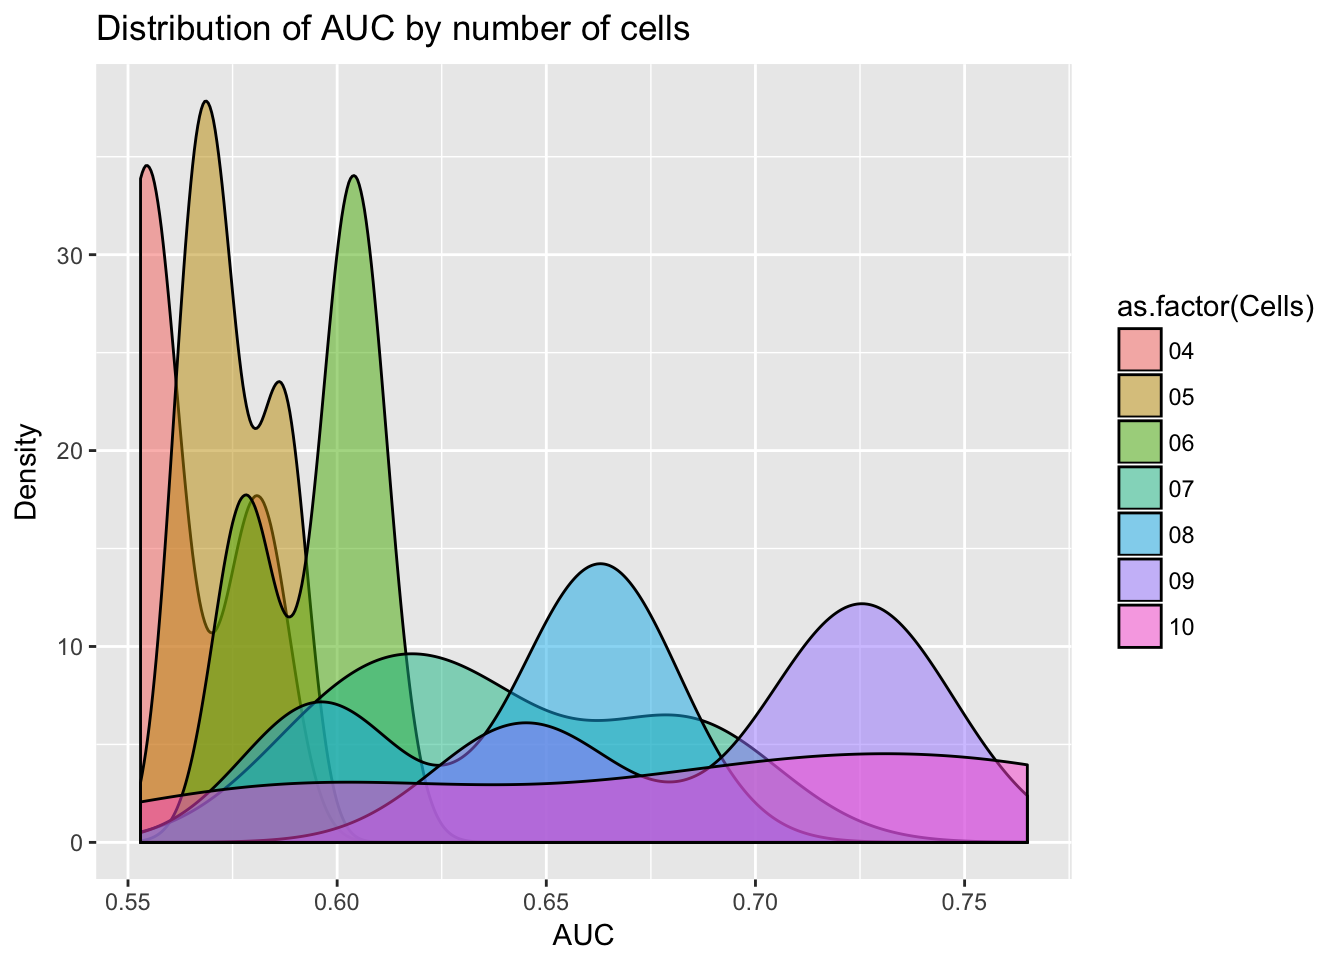
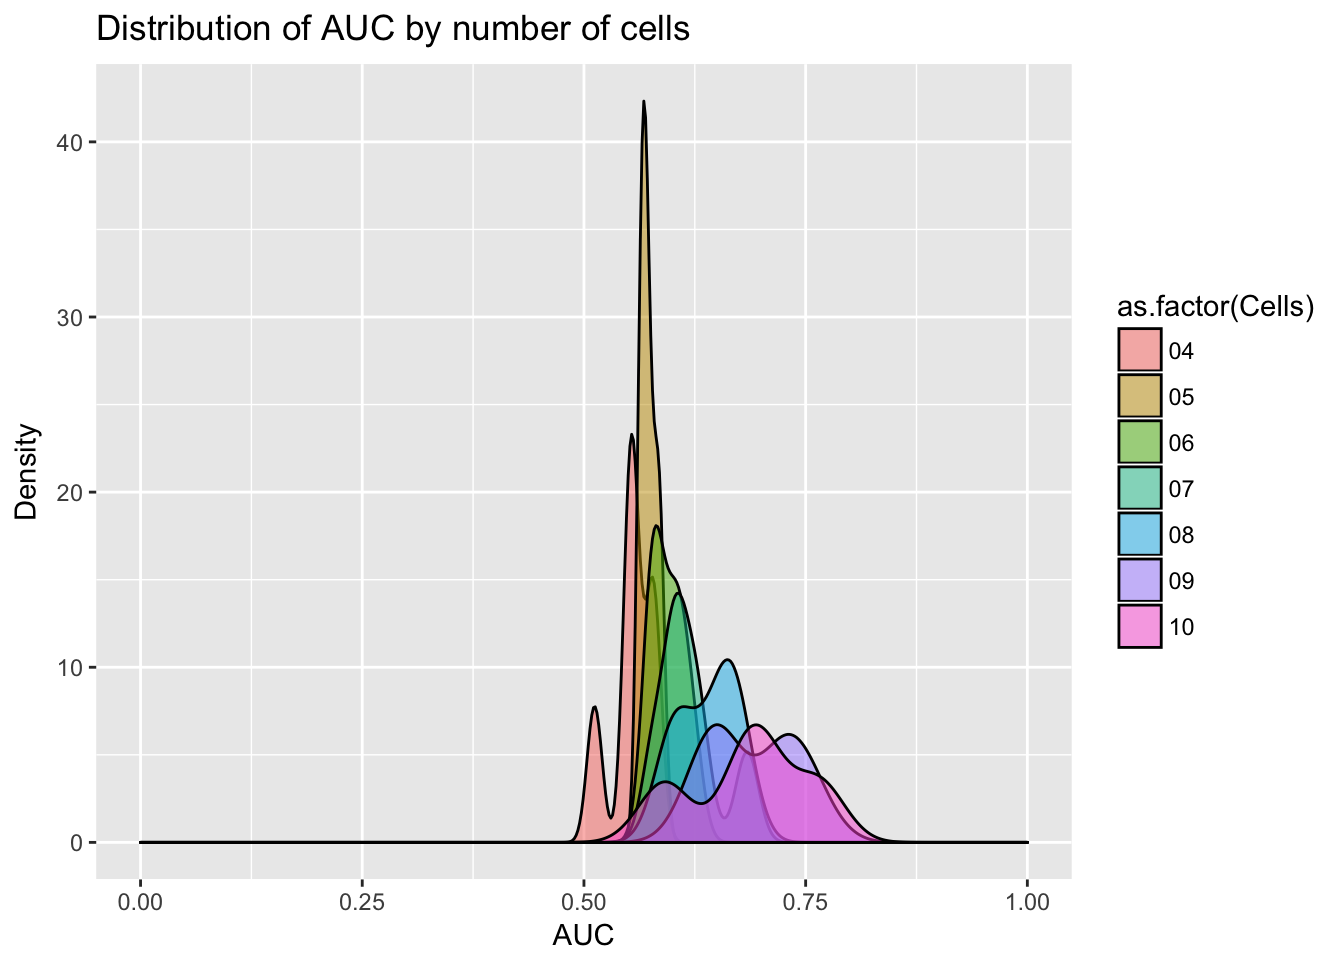
Better metrics

diff --git a/post/ultimate-captioning-detector/index.html b/post/ultimate-captioning-detector/index.html
@@ -254,7 +254,7 @@
 
 
     <div class="article-style" itemprop="articleBody">
-      <p>The task is to classify images: which ones depict a disc, and which ones do not? Using a manually-labeled collection of over 3,000 images, partition the data into training and testing sets, extract features using Histograms of Oriented Gradients (HoGs), train a linear support vector machine on the training set, and classify the images from the testing set. Examine the effect on classifier performance resulting from varying the proportion of examples used for training vs. testing and the number of cells used for extracting HoGs from each image.</p>
+      <p>The task is to classify images: which ones depict a disc, and which ones do not? Using a manually-labeled collection of over 3,000 images, partition the data into training and testing sets, extract features using Histograms of Oriented Gradients (HoGs), train a linear support vector machine on the training set, and classify the images from the testing set. Examine the effect on classifier performance resulting from varying the proportion of examples used for training vs. testing, the number of cells, and the number of bins used for extracting HoGs from each image.</p>
 <hr />
 <div id="data" class="section level2">
 <h2>Data</h2>
@@ -284,6 +284,10 @@
 </blockquote>
 <p>B. Partition the labeled data into multiple training and testing sets in order to see what effect the number of training rows has on the effectiveness of the detector.</p>
 <p>See <a href="https://github.com/Video-Captioning/partition_datasets" class="uri">https://github.com/Video-Captioning/partition_datasets</a></p>
+<pre class="bash"><code># Create a few aliases to make the intent more clear in the scripts that follow.
+alias PROJECTPATH=&#39;echo &quot;/path/to/Projects/Video-Captioning/&quot;&#39;
+alias CLASS_LABELS=&#39;echo &quot;labeled_3471.txt&quot;&#39;
+alias KEYWORD=&#39;echo &quot;disc&quot;&#39;</code></pre>
 <pre class="bash"><code># Generate three data sets, using a progressively higher
 # percentage of examples for training:
 cd `PROJECTPATH`
@@ -296,11 +300,12 @@ for fraction in 0.40 0.50 0.60
 <div id="make-histograms-of-oriented-gradients-hogs" class="section level3">
 <h3>2. Make Histograms of Oriented Gradients (HoGs)</h3>
 <p>See <a href="https://github.com/Video-Captioning/HoG" class="uri">https://github.com/Video-Captioning/HoG</a></p>
-<p>The number of bins remains constant at 9 for the following, while the number of cells varies from 4 to 9:</p>
 <pre class="bash"><code>for fraction in 40 50 60; do
   cd `PROJECTPATH``KEYWORD`$fraction
-  for bins in 4 5 6 7 8 9; do
-    ../hog.sh ../data/2_images/ $bins 9
+  for bins in 7 9 15; do
+    for cells in 4 5 6 7 8 9; do
+      ../hog.sh ../data/2_images/ $cells $bins
+    done
   done
 done</code></pre>
 </div>
@@ -370,17 +375,47 @@ map2( DATA_PATH, BATCHES, ~SVM_classify_one_set( .x, .y ))</code></pre>
 <h3>4. Collect and Summarize Results</h3>
 <p><a href="https://github.com/Video-Captioning/SVM-two-class">Recursive_score_collection.sh</a> searches for all the <em>keyword</em> <em>training_fraction</em> subdirectories and captures the previously-recorded scores at each location.</p>
 <p>Plot the results with <a href="https://github.com/Video-Captioning/SVM-two-class/SVM_evaluation.R">SVM_evaluation.R</a></p>
-<pre class="r"><code># --- Load libraries ---
-require( ggplot2 )</code></pre>
-<pre><code>## Loading required package: ggplot2</code></pre>
-<pre class="r"><code># --- Get the data ---
-SCORES &lt;- &#39;../../data/scores.txt&#39;
-#dir( path = &#39;../../data/&#39; )
-x &lt;- read.csv( file = SCORES, header=TRUE,sep=&#39;|&#39; )</code></pre>
-<p><img src="/post/Part4_files/figure-html/unnamed-chunk-6-1.png" width="672" /> Using 4 cells was quick (about two minutes), but not very accurate, measured by area under the receiver operator characteristic curve.</p>
-<p>Using 10 cells, feature extraction took 20 minutes or more. Using 50% of the images for training performed better than using 40% or 60%, and was quicker than using 40%. <img src="/post/Part4_files/figure-html/unnamed-chunk-7-1.png" width="672" /></p>
-<p>Feature extraction rate (rows per second) is <em>very</em> slow for 10 cells, moderate for 7 to 9 cells, and considerably faster for 4 cells. <img src="/post/Part4_files/figure-html/unnamed-chunk-8-1.png" width="672" /></p>
-<p>AUC_by_N_cells_points <img src="/post/Part4_files/figure-html/unnamed-chunk-9-1.png" width="672" /></p>
+<pre><code>##                     Batch   TP FP  TN  FN   AUC  Sec testrecs Frac Bins
+## 5  disc30/cells5_bins15/  2063  6 302  60 0.581  865     2431   30   15
+## 8  disc30/cells6_bins15/  2059 10 272  90 0.622 1254     2431   30   15
+## 12  disc30/cells7_bins7/  2062  7 304  58 0.578  837     2431   30   07
+## 13  disc30/cells7_bins9/  2062  7 288  74 0.601 1168     2431   30   09
+## 15  disc30/cells8_bins7/  2062  7 284  78 0.606 1092     2431   30   07
+## 16  disc30/cells8_bins9/  2061  8 264  98 0.633 1294     2431   30   09
+## 18  disc30/cells9_bins7/  2063  6 253 109 0.649 1597     2431   30   07
+## 20 disc40/cells10_bins9/  1769  7 183 125 0.701 1894     2084   40   09
+## 25  disc40/cells8_bins9/  1771  5 248  60 0.596 1121     2084   40   09
+## 26  disc40/cells9_bins9/  1771  5 218  90 0.645 1421     2084   40   09
+##    Cells  Accu  Prec  Recl trainrecs      rate Speed number_of_bins
+## 5     05 97.29 99.71 97.17      1042 0.8301344     1             15
+## 8     06 95.89 99.52 95.81      1042 1.2034549     0             15
+## 12    07 97.33 99.66 97.26      1042 0.8032630     1              7
+## 13    07 96.67 99.66 96.54      1042 1.1209213     1              9
+## 15    08 96.50 99.66 96.36      1042 1.0479846     1              7
+## 16    08 95.64 99.61 95.46      1042 1.2418426     0              9
+## 18    09 95.27 99.71 94.98      1042 1.5326296     0              7
+## 20    10 93.67 99.61 93.40      1389 1.3635709     0              9
+## 25    08 96.88 99.72 96.72      1389 0.8070554     1              9
+## 26    09 95.44 99.72 95.16      1389 1.0230382     0              9
+##    number_of_cells bins_ cells_ bins cells frac
+## 5                5   15      5    15     5   30
+## 8                6   15      6    15     6   30
+## 12               7    7      7     7     7   30
+## 13               7    9      7     9     7   30
+## 15               8    7      8     7     8   30
+## 16               8    9      8     9     8   30
+## 18               9    7      9     7     9   30
+## 20              10    9     10     9    10   40
+## 25               8    9      8     9     8   40
+## 26               9    9      9     9     9   40</code></pre>
+<p>Generally, more cells result in a greater area under the curve… <img src="/post/Part4_files/figure-html/unnamed-chunk-7-1.png" width="672" /></p>
+<p>But it takes more time to calculate HoGs for more cells…</p>
+<p>The Feature Extraction Rate (rows per second) is <em>very</em> slow for 10 cells, moderate for 7 to 9 cells, and considerably faster for 4 cells. <img src="/post/Part4_files/figure-html/unnamed-chunk-8-1.png" width="672" /></p>
+<p>Using 4 cells was quick (about two minutes), but not very accurate, measured by area under the receiver operator characteristic curve.</p>
+<p>Using 10 cells, feature extraction took 20 minutes or more. Using 50% of the images for training performed better than using 40% or 60%, and was quicker than using 40%.</p>
+<p><img src="/post/Part4_files/figure-html/unnamed-chunk-11-1.png" width="672" /></p>
+<p>Fast enough, but without requiring too many training examples…</p>
+<p><img src="/post/Part4_files/figure-html/unnamed-chunk-12-1.png" width="672" /></p>
 </div>
 <div id="conclusion" class="section level3">
 <h3>Conclusion</h3>

diff --git a/post/ultimate-captioning-scorecard/index.html b/post/ultimate-captioning-scorecard/index.html
@@ -17,7 +17,7 @@
       
     
   
-  <meta name="description" content="Data used for this scorecard  3,471 images, excerpted from 2015bsVriot.mp4 at a rate of roughly 1 frame per second for about 1 hour  , partition the labeled data into two sets: Some portion of the data for training and the rest for testing. After partitioning the data, ...
+  <meta name="description" content="Data used for this scorecard  3,471 images, excerpted from 2015bsVriot.mp4 at a rate of roughly 1 frame per second for about 1 hour  Partition the labeled data into two sets: Some portion of the data for training and the rest for testing. After partitioning the data, ...
 Scorecard What are the individual tasks, and how effective are various approaches?
 General    Id Task Approach Details     G1 Extract images from video Shell script to drive command-line VLC See https://github.">
 
@@ -78,7 +78,7 @@ General    Id Task Approach Details     G1 Extract images from video Shell scrip
   <meta property="og:site_name" content="Unqualified Success">
   <meta property="og:url" content="/post/ultimate-captioning-scorecard/">
   <meta property="og:title" content="Ultimate Captioning Part 3 | Unqualified Success">
-  <meta property="og:description" content="Data used for this scorecard  3,471 images, excerpted from 2015bsVriot.mp4 at a rate of roughly 1 frame per second for about 1 hour  , partition the labeled data into two sets: Some portion of the data for training and the rest for testing. After partitioning the data, ...
+  <meta property="og:description" content="Data used for this scorecard  3,471 images, excerpted from 2015bsVriot.mp4 at a rate of roughly 1 frame per second for about 1 hour  Partition the labeled data into two sets: Some portion of the data for training and the rest for testing. After partitioning the data, ...
 Scorecard What are the individual tasks, and how effective are various approaches?
 General    Id Task Approach Details     G1 Extract images from video Shell script to drive command-line VLC See https://github."><meta property="og:image" content="/img/frame_16831.png">
   <meta property="og:locale" content="en-us">
@@ -275,7 +275,7 @@ General    Id Task Approach Details     G1 Extract images from video Shell scrip
 <li>3,471 images, excerpted from 2015bsVriot.mp4 at a rate of roughly 1 frame per second for about 1 hour</li>
 </ul>
 
-<p>, partition the labeled data into two sets: Some portion of the data for <em>training</em> and the rest for <em>testing</em>. After partitioning the data, ...</p>
+<p>Partition the labeled data into two sets: Some portion of the data for <em>training</em> and the rest for <em>testing</em>. After partitioning the data, ...</p>
 
 <h1 id="scorecard">Scorecard</h1>
 
@@ -340,7 +340,7 @@ General    Id Task Approach Details     G1 Extract images from video Shell scrip
 </tr>
 
 <tr>
-<td align="right">UC3</td>
+<td align="right">IC3</td>
 <td align="left">Find the field</td>
 <td>Dominant Hue with KNN clustering</td>
 <td align="left"></td>

diff --git a/tags/image-processing/index.html b/tags/image-processing/index.html
@@ -73,16 +73,16 @@
   
   <meta property="og:site_name" content="Unqualified Success">
   <meta property="og:url" content="/tags/image-processing/">
-  <meta property="og:title" content="Image Processing | Unqualified Success">
+  <meta property="og:title" content="Image-processing | Unqualified Success">
   <meta property="og:description" content=")(">
   <meta property="og:locale" content="en-us">
   
-  <meta property="og:updated_time" content="2015-07-23T21:13:14-05:00">
+  <meta property="og:updated_time" content="2018-01-14T00:00:00&#43;00:00">
   
 
   
 
-  <title>Image Processing | Unqualified Success</title>
+  <title>Image-processing | Unqualified Success</title>
 
 </head>
 <body id="top" data-spy="scroll" data-target="#toc" data-offset="71" class="dark">
@@ -202,15 +202,26 @@
 
 <div class="universal-wrapper">
 
-  <h1>Image Processing</h1>
+  <h1>Image-processing</h1>
 
   
 
   
   
   <div>
-    <h2><a href="/post/2015-07-23-r-rmarkdown/">R Example</a></h2>
+    <h2><a href="/project/images-like-this/">Images Like This</a></h2>
     <div class="article-style">
+      
+      Given a set of images, find the ones that are most similar to a set of examples.
+      
+    </div>
+  </div>
+  
+  <div>
+    <h2><a href="/project/photogrammetric-potsherd/">Photogrammetric Potsherd Profile</a></h2>
+    <div class="article-style">
+      
+      A procedure for using photography to estimate key artifact dimensions.
       
     </div>
   </div>

diff --git a/tags/index.html b/tags/index.html
@@ -216,13 +216,6 @@
   </div>
   
   <div>
-    <h2><a href="/tags/image-processing/">Image Processing</a></h2>
-    <div class="article-style">
-      
-    </div>
-  </div>
-  
-  <div>
     <h2><a href="/tags/image-processing/">Image processing</a></h2>
     <div class="article-style">
       
@@ -258,13 +251,6 @@
   </div>
   
   <div>
-    <h2><a href="/tags/plot/">Plot</a></h2>
-    <div class="article-style">
-      
-    </div>
-  </div>
-  
-  <div>
     <h2><a href="/tags/problem-statement/">Problem statement</a></h2>
     <div class="article-style">
       
@@ -273,6 +259,20 @@
   
   <div>
     <h2><a href="/tags/project/">Project</a></h2>
+    <div class="article-style">
+      
+    </div>
+  </div>
+  
+  <div>
+    <h2><a href="/tags/python/">Python</a></h2>
+    <div class="article-style">
+      
+    </div>
+  </div>
+  
+  <div>
+    <h2><a href="/tags/r/">R</a></h2>
     <div class="article-style">
       
     </div>

diff --git a/index.html b/index.html
@@ -423,13 +423,6 @@
           
           
           
-          <a href="/tags/image-processing" style="font-size:0.8rem">Image Processing</a>
-        
-          
-          
-          
-          
-          
           <a href="/tags/large-integer-multiplication" style="font-size:0.8rem">Large Integer Multiplication</a>
         
           
@@ -487,13 +480,6 @@
           
           
           <a href="/tags/photogrammetry" style="font-size:0.8rem">photogrammetry</a>
-        
-          
-          
-          
-          
-          
-          <a href="/tags/plot" style="font-size:0.8rem">plot</a>
         
           
           

diff --git a/tags/page/2/index.html b/tags/page/2/index.html
@@ -77,7 +77,7 @@
   <meta property="og:description" content=")(">
   <meta property="og:locale" content="en-us">
   
-  <meta property="og:updated_time" content="2018-01-14T00:00:00&#43;00:00">
+  <meta property="og:updated_time" content="2015-07-23T21:13:14-05:00">
   
 
   
@@ -207,20 +207,6 @@
   
 
   
-  
-  <div>
-    <h2><a href="/tags/python/">Python</a></h2>
-    <div class="article-style">
-      
-    </div>
-  </div>
-  
-  <div>
-    <h2><a href="/tags/r/">R</a></h2>
-    <div class="article-style">
-      
-    </div>
-  </div>
   
   <div>
     <h2><a href="/tags/r-markdown/">R Markdown</a></h2>

diff --git a/post/2015-07-23-r-rmarkdown/index.html b/post/2015-07-23-r-rmarkdown/index.html
@@ -264,10 +264,6 @@
   
   <a class="btn btn-primary btn-outline" href="/tags/r-markdown">R Markdown</a>
   
-  <a class="btn btn-primary btn-outline" href="/tags/plot">plot</a>
-  
-  <a class="btn btn-primary btn-outline" href="/tags/image-processing">Image Processing</a>
-  
 </div>
 
 
